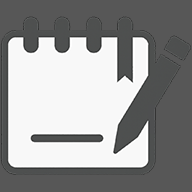
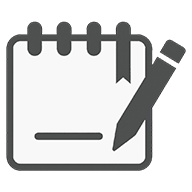
Updates

diff --git a/sw.js b/sw.js
@@ -1,1 +1,1 @@
-if(!self.define){let e,i={};const n=(n,s)=>(n=new URL(n+".js",s).href,i[n]||new Promise(i=>{if("document"in self){const e=document.createElement("script");e.src=n,e.onload=i,document.head.appendChild(e)}else e=n,importScripts(n),i()}).then(()=>{let e=i[n];if(!e)throw new Error(`Module ${n} didn’t register its module`);return e}));self.define=(s,r)=>{const t=e||("document"in self?document.currentScript.src:"")||location.href;if(i[t])return;let o={};const c=e=>n(e,t),l={module:{uri:t},exports:o,require:c};i[t]=Promise.all(s.map(e=>l[e]||c(e))).then(e=>(r(...e),o))}}define(["./workbox-5ffe50d4"],function(e){"use strict";self.skipWaiting(),e.clientsClaim(),e.precacheAndRoute([{url:"assets/index-BdVTB74R.css",revision:null},{url:"assets/index-CMUZ0F_8.js",revision:null},{url:"index.html",revision:"d54cbd0ca003886b21eec5aee685b906"},{url:"registerSW.js",revision:"0b398213f581374438bb804e3b6527df"},{url:"favicon.png",revision:"031a9c1acb286ac231cb1c0e4ae19ccb"},{url:"pwa-192x192.png",revision:"74bf432906d29bf2133a3baeae176d90"},{url:"pwa-512x512.png",revision:"33f14be0f637103a98ad2e076be4543f"},{url:"manifest.webmanifest",revision:"805badcbe55ef93a923a462c1205e3dd"}],{}),e.cleanupOutdatedCaches(),e.registerRoute(new e.NavigationRoute(e.createHandlerBoundToURL("index.html")))});
+if(!self.define){let e,i={};const n=(n,s)=>(n=new URL(n+".js",s).href,i[n]||new Promise(i=>{if("document"in self){const e=document.createElement("script");e.src=n,e.onload=i,document.head.appendChild(e)}else e=n,importScripts(n),i()}).then(()=>{let e=i[n];if(!e)throw new Error(`Module ${n} didn’t register its module`);return e}));self.define=(s,r)=>{const t=e||("document"in self?document.currentScript.src:"")||location.href;if(i[t])return;let o={};const c=e=>n(e,t),l={module:{uri:t},exports:o,require:c};i[t]=Promise.all(s.map(e=>l[e]||c(e))).then(e=>(r(...e),o))}}define(["./workbox-5ffe50d4"],function(e){"use strict";self.skipWaiting(),e.clientsClaim(),e.precacheAndRoute([{url:"assets/index-BdVTB74R.css",revision:null},{url:"assets/index-CMUZ0F_8.js",revision:null},{url:"index.html",revision:"d54cbd0ca003886b21eec5aee685b906"},{url:"registerSW.js",revision:"0b398213f581374438bb804e3b6527df"},{url:"favicon.png",revision:"031a9c1acb286ac231cb1c0e4ae19ccb"},{url:"pwa-192x192.png",revision:"8495504bea75730a910b27bf3e600d76"},{url:"pwa-512x512.png",revision:"d85e6519a54e3980f091b1a89f1d337a"},{url:"manifest.webmanifest",revision:"805badcbe55ef93a923a462c1205e3dd"}],{}),e.cleanupOutdatedCaches(),e.registerRoute(new e.NavigationRoute(e.createHandlerBoundToURL("index.html")))});
